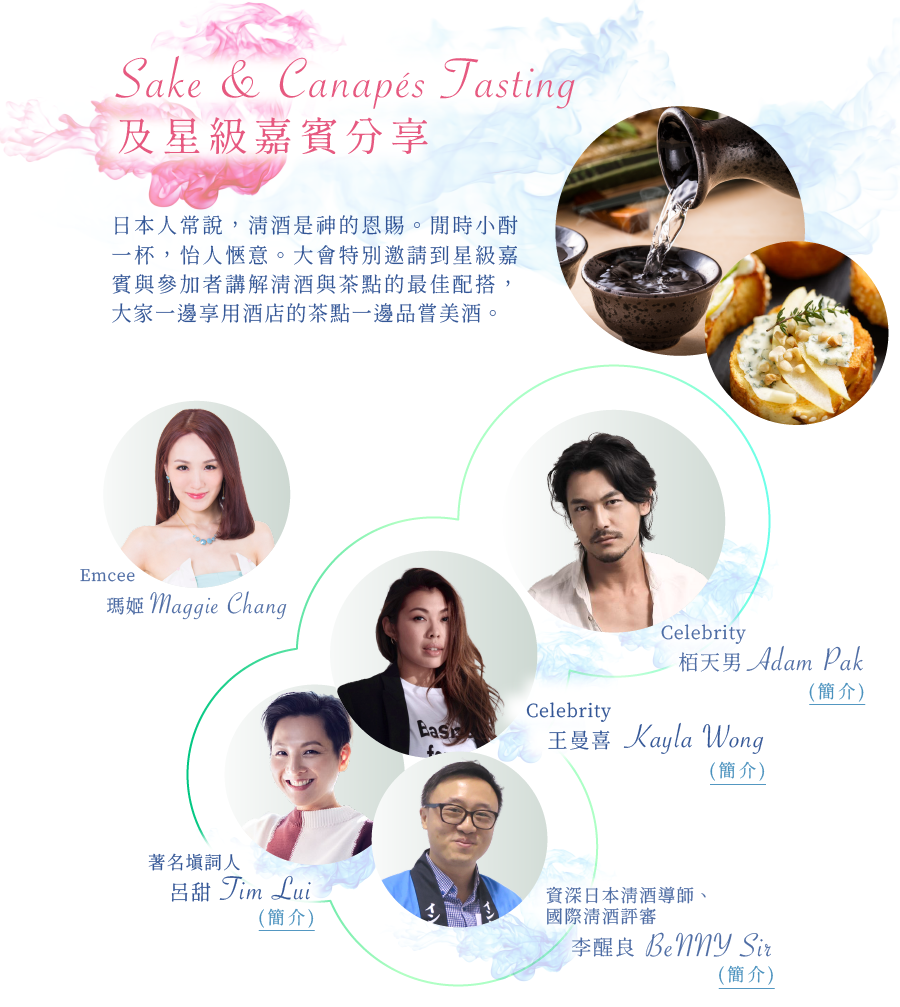
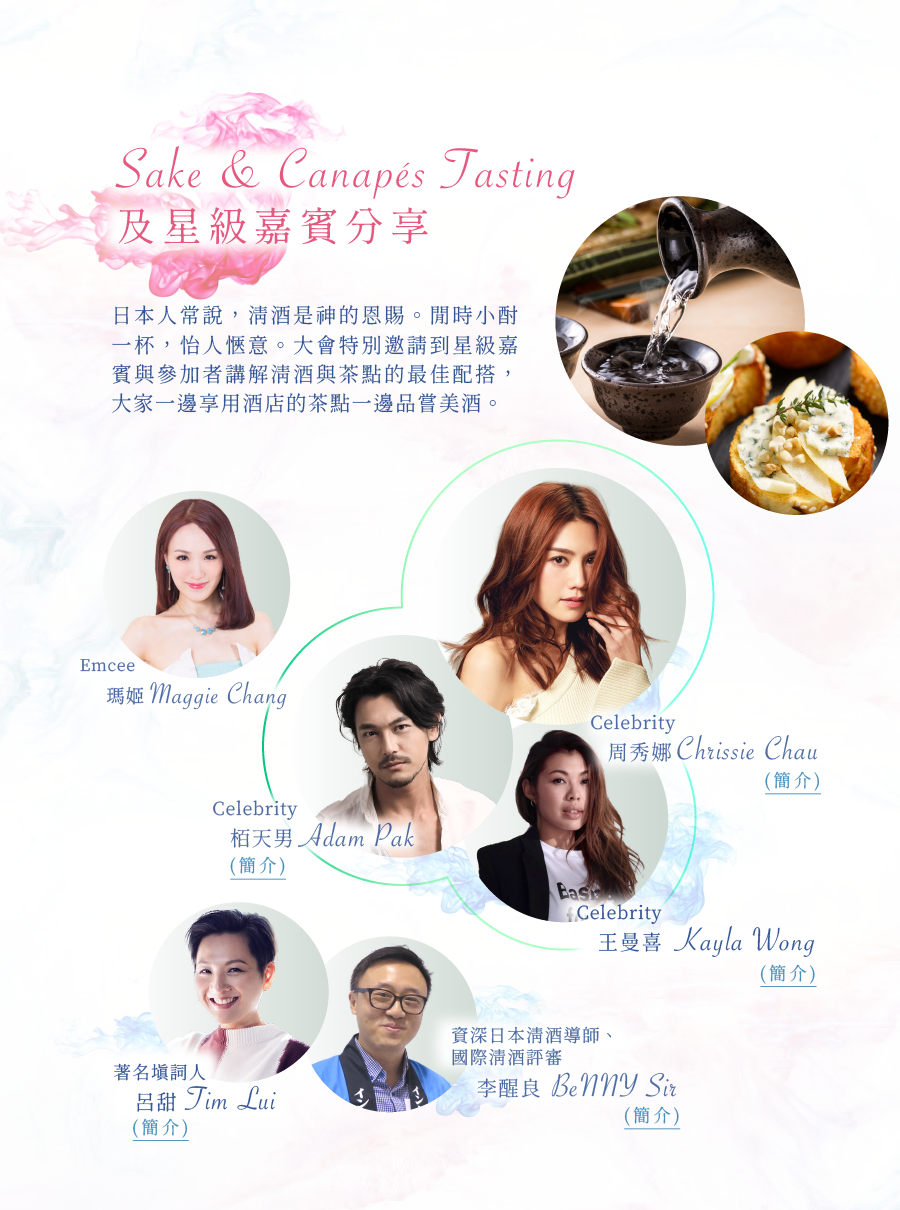
update contents

diff --git a/index.html b/index.html
@@ -43,6 +43,7 @@
 								<a class="abslink" id="workshop_detail_link7" data-toggle="modal" data-target="#workshop_detail7" href="#"></a>
 								<a class="abslink" id="workshop_detail_link8" data-toggle="modal" data-target="#workshop_detail8" href="#"></a>
 								<a class="abslink" id="workshop_detail_link9" data-toggle="modal" data-target="#workshop_detail9" href="#"></a>
+								<a class="abslink" id="workshop_detail_link10" data-toggle="modal" data-target="#workshop_detail10" href="#"></a>
 							</div>
 							<div class="visual">
 								<img src="public/p1_4.png">
@@ -64,6 +65,7 @@
 								<a class="abslink" id="workshop_detail_link7" data-toggle="modal" data-target="#workshop_detail7" href="#"></a>
 								<a class="abslink" id="workshop_detail_link8" data-toggle="modal" data-target="#workshop_detail8" href="#"></a>
 								<a class="abslink" id="workshop_detail_link9" data-toggle="modal" data-target="#workshop_detail9" href="#"></a>
+								<a class="abslink" id="workshop_detail_link10" data-toggle="modal" data-target="#workshop_detail10" href="#"></a>
 							</div>
 							<div class="visual_mob">
 								<img src="public/p1_4_mob.png">
@@ -274,6 +276,27 @@
 								</div>
 							</div>
 					</div>
+					<!-- workshop_detail10 -->
+					<div class="modal fade" id="workshop_detail10" tabindex="-1" role="dialog" aria-labelledby="exampleModalLabel" aria-hidden="true">
+						<div class="modal-dialog" role="document">
+							<div class="modal-content">
+								
+								<button type="button" class="close" data-dismiss="modal" aria-label="Close">
+									<img src="public/btn_close.png">
+								</button>
+								
+								<div class="modal-body">
+									<div class="visual">
+										<img src="public/overlay10.jpg">
+									</div>
+									<div class="visual_mob">
+										<img src="public/overlay10_mob.jpg">
+									</div>
+								</div>
+							</div>
+						</div>
+					</div>
+
 
 				</div>
 				<div class="content" id="stage2" ng-show="stage==2">

diff --git a/src/scss/main.scss b/src/scss/main.scss
@@ -119,26 +119,32 @@ body {
     #workshop_detail_link6 {
         width: 64px;
         height: 35px;
-        left: 807px;
-        top: 680px;
+        left: 224px;
+        top: 853px;
     }
     #workshop_detail_link7 {
         width: 64px;
         height: 35px;
-        left: 702px;
-        top: 751px;
+        left: 757px;
+        top: 960px;
     }
     #workshop_detail_link8 {
         width: 64px;
         height: 35px;
-        left: 251px;
-        top: 901px;
+        left: 125px;
+        top: 1112px;
     }
     #workshop_detail_link9 {
         width: 64px;
         height: 35px;
+        left: 619px;
+        top: 1102px;
+    }
+    #workshop_detail_link10 {
+        width: 64px;
+        height: 35px;
         left: 713px;
-        top: 960px;
+        top: 760px;
     }
     #omologin{
         left: 25%;
@@ -187,26 +193,32 @@ body {
     #workshop_detail_link6 {
         width: 10vw;
         height: 5vw;
-        left: 88vw;
-        top: 93vw;
+        left: 16vw;
+        top: 115vw;
     }
     #workshop_detail_link7 {
         width: 10vw;
         height: 5vw;
-        left: 76vw;
-        top: 103vw;
+        left: 83vw;
+        top: 136vw;
     }
     #workshop_detail_link8 {
         width: 10vw;
         height: 5vw;
-        left: 16vw;
-        top: 122vw;
+        left: 11vw;
+        top: 148vw;
     }
     #workshop_detail_link9 {
         width: 10vw;
         height: 5vw;
         left: 76vw;
-        top: 129vw;
+        top: 152vw;
+    }
+    #workshop_detail_link10 {
+        width: 10vw;
+        height: 5vw;
+        left: 84vw;
+        top: 107vw;
     }
     #omologin{
         left: 25%;

diff --git a/public/assets/main.css b/public/assets/main.css
@@ -8063,23 +8063,28 @@ body {
   .visual #workshop_detail_link6 {
     width: 64px;
     height: 35px;
-    left: 807px;
-    top: 680px; }
+    left: 224px;
+    top: 853px; }
   .visual #workshop_detail_link7 {
     width: 64px;
     height: 35px;
-    left: 702px;
-    top: 751px; }
+    left: 757px;
+    top: 960px; }
   .visual #workshop_detail_link8 {
     width: 64px;
     height: 35px;
-    left: 251px;
-    top: 901px; }
+    left: 125px;
+    top: 1112px; }
   .visual #workshop_detail_link9 {
     width: 64px;
     height: 35px;
+    left: 619px;
+    top: 1102px; }
+  .visual #workshop_detail_link10 {
+    width: 64px;
+    height: 35px;
     left: 713px;
-    top: 960px; }
+    top: 760px; }
   .visual #omologin {
     left: 25%;
     top: 158px; }
@@ -8120,23 +8125,28 @@ body {
   .visual_mob #workshop_detail_link6 {
     width: 10vw;
     height: 5vw;
-    left: 88vw;
-    top: 93vw; }
+    left: 16vw;
+    top: 115vw; }
   .visual_mob #workshop_detail_link7 {
     width: 10vw;
     height: 5vw;
-    left: 76vw;
-    top: 103vw; }
+    left: 83vw;
+    top: 136vw; }
   .visual_mob #workshop_detail_link8 {
     width: 10vw;
     height: 5vw;
-    left: 16vw;
-    top: 122vw; }
+    left: 11vw;
+    top: 148vw; }
   .visual_mob #workshop_detail_link9 {
     width: 10vw;
     height: 5vw;
     left: 76vw;
-    top: 129vw; }
+    top: 152vw; }
+  .visual_mob #workshop_detail_link10 {
+    width: 10vw;
+    height: 5vw;
+    left: 84vw;
+    top: 107vw; }
   .visual_mob #omologin {
     left: 25%;
     top: 18vw;
